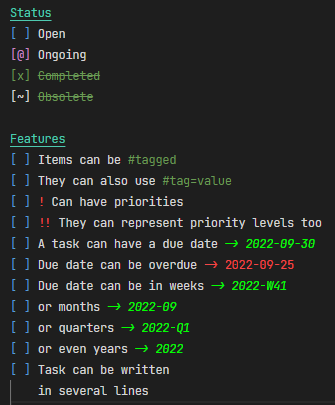
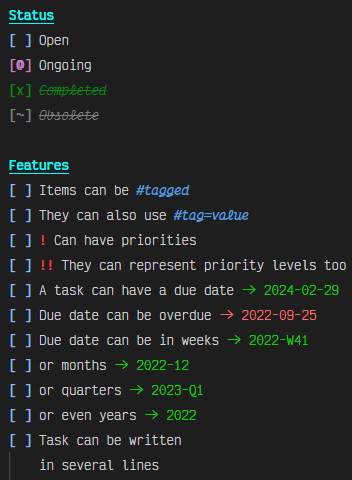
testing

Changed region(s): [[0.0, 0.3259, 0.9851, 1.0], [0.0299, 0.0, 0.2985, 0.2667], [0.1194, 0.5333, 0.1493, 0.563]]

diff --git a/src/semantic.ts b/src/semantic.ts
@@ -7,6 +7,7 @@ import { getToday } from './utils';
 const tokenTypesLegend = [
     'title',
     'itemClosed',
+    'itemObsolete',
     'checkboxOpen',
     'checkboxOngoing',
     'checkboxCompleted',
@@ -142,12 +143,20 @@ class XitSemanticTokensProvider implements vscode.DocumentSemanticTokensProvider
                         tokenModifier: 'none',
                     });
 
-                    if (item_state == ItemStatus.Completed || item_state == ItemStatus.Obsolete) {
+                    if (item_state == ItemStatus.Completed) {
                         tokens.push({
                             line: i,
                             startCharacter: 4,
                             length: text.length - 4,
                             tokenType: 'itemClosed',
+                            tokenModifier: 'none',
+                        });
+                    } else if (item_state == ItemStatus.Obsolete) {
+                        tokens.push({
+                            line: i,
+                            startCharacter: 4,
+                            length: text.length - 4,
+                            tokenType: 'itemObsolete',
                             tokenModifier: 'none',
                         });
                     } else {
@@ -205,12 +214,20 @@ class XitSemanticTokensProvider implements vscode.DocumentSemanticTokensProvider
 
                     parsing_state = ParsingState.Invalid;
                 } else {
-                    if (item_state == ItemStatus.Completed || item_state == ItemStatus.Obsolete) {
+                    if (item_state == ItemStatus.Completed) {
                         tokens.push({
                             line: i,
                             startCharacter: 4,
                             length: text.length - 4,
                             tokenType: 'itemClosed',
+                            tokenModifier: 'none',
+                        });
+                    } else if (item_state == ItemStatus.Obsolete) {
+                        tokens.push({
+                            line: i,
+                            startCharacter: 4,
+                            length: text.length - 4,
+                            tokenType: 'itemObsolete',
                             tokenModifier: 'none',
                         });
                     } else {

diff --git a/src/diagnostics.ts b/src/diagnostics.ts
@@ -1,5 +1,5 @@
 import * as vscode from 'vscode';
-import { getDate } from './content';
+import { getRawDate } from './content';
 import * as globals from './globals'
 import { ParsingState } from './globals'
 import { checkDate } from './utils';
@@ -55,7 +55,7 @@ function checkContent(document: vscode.TextDocument): vscode.Diagnostic[] {
 
 				parsing_state = ParsingState.Title;
 			} else {
-				const date_match = getDate(line.text);
+				const date_match = getRawDate(line.text);
 
 				if (date_match.index > 0) {
 					const date = date_match.text;
@@ -99,7 +99,7 @@ function checkContent(document: vscode.TextDocument): vscode.Diagnostic[] {
 				parsing_state = ParsingState.Title;
 			} else {
 				if (!have_date) {
-					const date_match = getDate(line.text);
+					const date_match = getRawDate(line.text);
 
 					if (date_match.index > 0) {
 						const date = date_match.text;

diff --git a/src/content.ts b/src/content.ts
@@ -44,15 +44,22 @@ export function compileStatus(char: string): ItemStatus {
 	return ItemStatus.Unknown;
 }
 
-export function getDate(line: string): { text: string, index: number } {
+export function getRawDate(line: string): { text: string, index: number } {
 	const match = globals.ALL_DATES_MASK.exec(line);
 
 	if (match) {
 		const date = match[2].trim().replace(globals.ALT_DATE_SEP, globals.DEFAULT_DATE_SEP);
+		return { text: date, index: match.index + 4 };
+	}
 
-		if (IsValidDate(date)) {
-			return { text: date, index: match.index + 4 };
-		}
+	return { text: "", index: -1 };
+}
+
+export function getDate(line: string): { text: string, index: number } {
+	const date_match = getRawDate(line);
+
+	if (IsValidDate(date_match.text)) {
+		return date_match;
 	}
 
 	return { text: "", index: -1 };

diff --git a/src/extension.ts b/src/extension.ts
@@ -120,7 +120,6 @@ function decreaseDateOfSelected(editor: vscode.TextEditor) {
 
 function insertCurrentPeriod(editor: vscode.TextEditor, edit: vscode.TextEditorEdit, period: Period) {
 	editor.selections.forEach((selection, i) => {
-		let text = "FooBar " + i;
 		edit.insert(selection.active, getCurrentPeriod(period));
 	})
 }

diff --git a/src/utils.ts b/src/utils.ts
@@ -83,7 +83,7 @@ export function getNumberOfWeeks(year: number): number {
 
 export function getCurrentPeriod(period: Period): string {
 	const today = new Date();
-	const year = "-> " + today.getFullYear().toString();
+	const year = " -> " + today.getFullYear().toString();
 
 	switch (period) {
 		case Period.Week:

diff --git a/CHANGELOG.md b/CHANGELOG.md
@@ -3,13 +3,17 @@
 [//]: <> (All notable changes to the "xit-extended" extension will be documented in this file.)
 [//]: <> (Check [Keep a Changelog]\(http://keepachangelog.com/\) for recommendations on how to structure this file.)
 
-## [0.3.3] - 2022-10-05
+## [0.3.4] - 2022-10-09
 
 Beta release. Color theme added.
 
 ### Added
 
 - New color theme (based on the Dark+ theme) with the [x]it! semantic tokens
+
+### Changed
+
+- Code refactoring
 
 ## [0.3.0] - 2022-10-04
 
